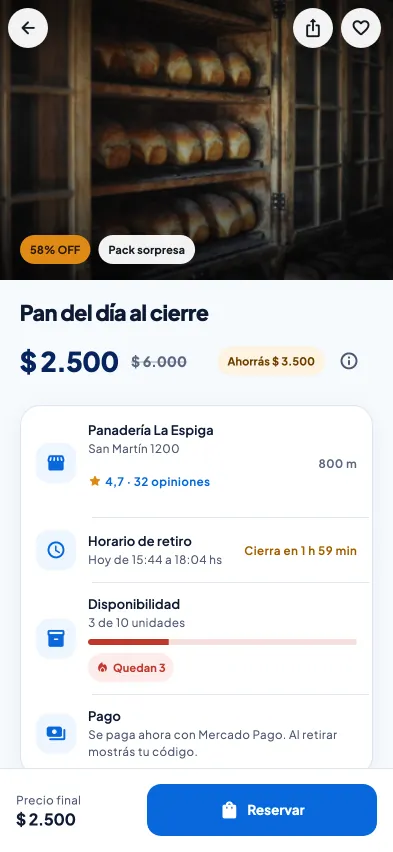
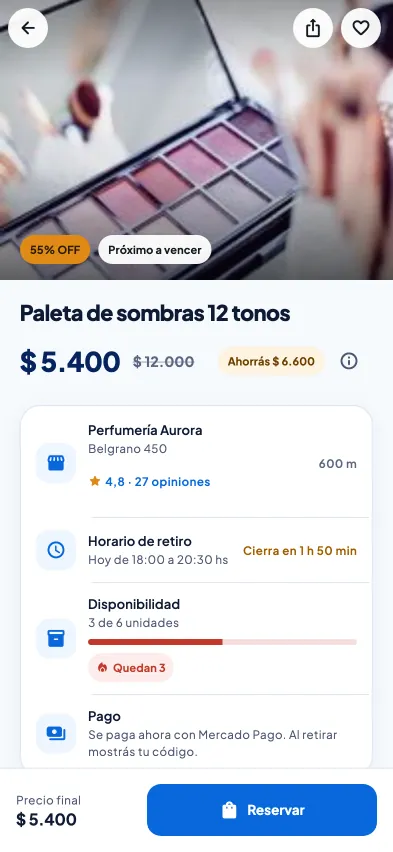
Sitio: capturas de la app al día, con una perfumería, una florería y un almacén
Las tres capturas de "La app, tal cual" (y la del panel en para
comercios) eran de antes de la 0.4.6 y todas de una panadería, con
"Tandil" en el panel. Las nuevas salen del test capturas_del_sitio de
la app: la oferta es una paleta de sombras próxima a vencer, el código
de retiro es de un ramo de flores y el panel es de un almacén con
yogur, detergente y legumbres. Mismos nombres, medidas (786 y 393 de
ancho) y pesos parecidos; textos alternativos según lo que muestran.

diff --git a/index.html b/index.html
@@ -340,8 +340,7 @@
 
   <!-- ===== Así se ve ===== -->
   <!-- Capturas de la app de verdad, salidas de sus tests de capturas
-       (test/widget/capturas_del_comprador_test.dart y _del_panel_test.dart en
-       el repo de la app), con sus datos de ejemplo: ningún comercio ni
+       (test/widget/capturas_del_sitio_test.dart en el repo de la app), con sus datos de ejemplo: ningún comercio ni
        persona real. Cada una tiene su versión oscura. -->
   <section class="seccion pantallas" id="pantallas" aria-labelledby="titulo-pantallas">
     <div class="contenedor">
@@ -355,7 +354,7 @@
           <div class="marco">
           <picture>
             <source media="(prefers-color-scheme: dark)" srcset="img/app/captura-oferta-oscuro-393.webp 393w, img/app/captura-oferta-oscuro.webp 786w" sizes="(max-width: 600px) 70vw, 272px">
-            <img src="img/app/captura-oferta-claro.webp" srcset="img/app/captura-oferta-claro-393.webp 393w, img/app/captura-oferta-claro.webp 786w" sizes="(max-width: 600px) 70vw, 272px" width="786" height="1704" loading="lazy" decoding="async" alt="La oferta en la app: pan del día al cierre a $ 2.500 en vez de $ 6.000, con el horario de retiro, cuántas quedan y el botón Reservar.">
+            <img src="img/app/captura-oferta-claro.webp" srcset="img/app/captura-oferta-claro-393.webp 393w, img/app/captura-oferta-claro.webp 786w" sizes="(max-width: 600px) 70vw, 272px" width="786" height="1704" loading="lazy" decoding="async" alt="La oferta en la app: una paleta de sombras de una perfumería, próxima a vencer, a $ 5.400 en vez de $ 12.000, con el horario de retiro, cuántas quedan y el botón Reservar.">
           </picture>
           </div>
           <p class="pie-captura"><strong>La oferta</strong>Cuánto ahorrás, hasta qué hora lo pasás a buscar y cuántas quedan.</p>
@@ -364,7 +363,7 @@
           <div class="marco">
           <picture>
             <source media="(prefers-color-scheme: dark)" srcset="img/app/captura-ticket-oscuro-393.webp 393w, img/app/captura-ticket-oscuro.webp 786w" sizes="(max-width: 600px) 70vw, 272px">
-            <img src="img/app/captura-ticket-claro.webp" srcset="img/app/captura-ticket-claro-393.webp 393w, img/app/captura-ticket-claro.webp 786w" sizes="(max-width: 600px) 70vw, 272px" width="786" height="1704" loading="lazy" decoding="async" alt="Tu reserva: el QR y el código para mostrar en el comercio, el horario de retiro y la dirección del local.">
+            <img src="img/app/captura-ticket-claro.webp" srcset="img/app/captura-ticket-claro-393.webp 393w, img/app/captura-ticket-claro.webp 786w" sizes="(max-width: 600px) 70vw, 272px" width="786" height="1704" loading="lazy" decoding="async" alt="Tu reserva de un ramo de flores: el QR y el código para mostrar en el comercio, el horario de retiro y la dirección del local.">
           </picture>
           </div>
           <p class="pie-captura"><strong>Tu ticket</strong>El QR y el código para mostrar en el local, con el horario y la dirección.</p>
@@ -373,7 +372,7 @@
           <div class="marco">
           <picture>
             <source media="(prefers-color-scheme: dark)" srcset="img/app/captura-panel-oscuro-393.webp 393w, img/app/captura-panel-oscuro.webp 786w" sizes="(max-width: 600px) 70vw, 272px">
-            <img src="img/app/captura-panel-claro.webp" srcset="img/app/captura-panel-claro-393.webp 393w, img/app/captura-panel-claro.webp 786w" sizes="(max-width: 600px) 70vw, 272px" width="786" height="1704" loading="lazy" decoding="async" alt="El panel del comercio en la pestaña Hoy: los retiros para entregar, el botón Escanear y las ofertas a la venta.">
+            <img src="img/app/captura-panel-claro.webp" srcset="img/app/captura-panel-claro-393.webp 393w, img/app/captura-panel-claro.webp 786w" sizes="(max-width: 600px) 70vw, 272px" width="786" height="1704" loading="lazy" decoding="async" alt="El panel de un almacén en la pestaña Hoy: los retiros para entregar, el botón Escanear y las ofertas a la venta, de yogur bebible y detergente.">
           </picture>
           </div>
           <p class="pie-captura"><strong>Del otro lado del mostrador</strong>El panel del comercio: lo que hay para entregar y lo que está a la venta.</p>

diff --git a/para-comercios.html b/para-comercios.html
@@ -357,7 +357,7 @@
         <div class="marco chico">
           <picture>
             <source media="(prefers-color-scheme: dark)" srcset="img/app/captura-panel-oscuro-393.webp 393w, img/app/captura-panel-oscuro.webp 786w" sizes="220px">
-            <img src="img/app/captura-panel-claro.webp" srcset="img/app/captura-panel-claro-393.webp 393w, img/app/captura-panel-claro.webp 786w" sizes="220px" width="786" height="1704" loading="lazy" decoding="async" alt="El panel del comercio en la app, pestaña Hoy: los retiros para entregar, el botón Escanear y las ofertas a la venta.">
+            <img src="img/app/captura-panel-claro.webp" srcset="img/app/captura-panel-claro-393.webp 393w, img/app/captura-panel-claro.webp 786w" sizes="220px" width="786" height="1704" loading="lazy" decoding="async" alt="El panel de un almacén en la app, pestaña Hoy: los retiros para entregar, el botón Escanear y las ofertas a la venta, de yogur bebible y detergente.">
           </picture>
         </div>
         <p class="pie-captura">El panel, tal cual se ve en la app (datos de ejemplo).</p>

diff --git a/README.md b/README.md
@@ -35,7 +35,7 @@ editar creyendo que era la web.
 |---|---|
 | `index.html`, `portada.css`, `portada.js` | La portada |
 | `para-comercios.html` | Todo para comercios: la promo, publicar, entregar, cobrar. Usa `portada.css` y `portada.js`. Se llama así y no `comercios.html` para no confundirse con `comercio.html` (la de un local) |
-| `img/app/captura-*.webp` | Capturas de la app, de sus tests de capturas (`test/widget/capturas_del_comprador_test.dart` y `capturas_del_panel_test.dart`, con `--dart-define=CAPTURAS=<carpeta>`), con datos de ejemplo. Cada una en claro y oscuro, a 786 y 393 de ancho |
+| `img/app/captura-*.webp` | Capturas de la app, de sus tests de capturas (`test/widget/capturas_del_sitio_test.dart`, con `--dart-define=CAPTURAS=<carpeta>`; salen en PNG a 786 de ancho y se pasan a webp con `cwebp`, la de 393 con `-resize 393 852`), con datos de ejemplo: una perfumería, una florería y un almacén, para que no parezca sólo comida. Cada una en claro y oscuro, a 786 y 393 de ancho |
 | `404.html` | La página de "no está" |
 | `estilo.css`, `fuentes/`, `img/`, íconos | Lo compartido |
 | `tiendas.js` | La dirección de la ficha del App Store (`window.SALVA_APP_STORE`), en un solo lugar: la usan la portada y `para-comercios.html` (vía `portada.js`), `oferta.html`, `comercio.html`, `hoy.html`, `cuenta.html` y `404.html`. Lo único que la repite es el JSON-LD de `index.html`, que no puede leer JS, y el `href` inicial del botón del App Store en `hoy.html` y `comercio.html`, para quien no corre JS (el script lo pisa con el de acá) |
